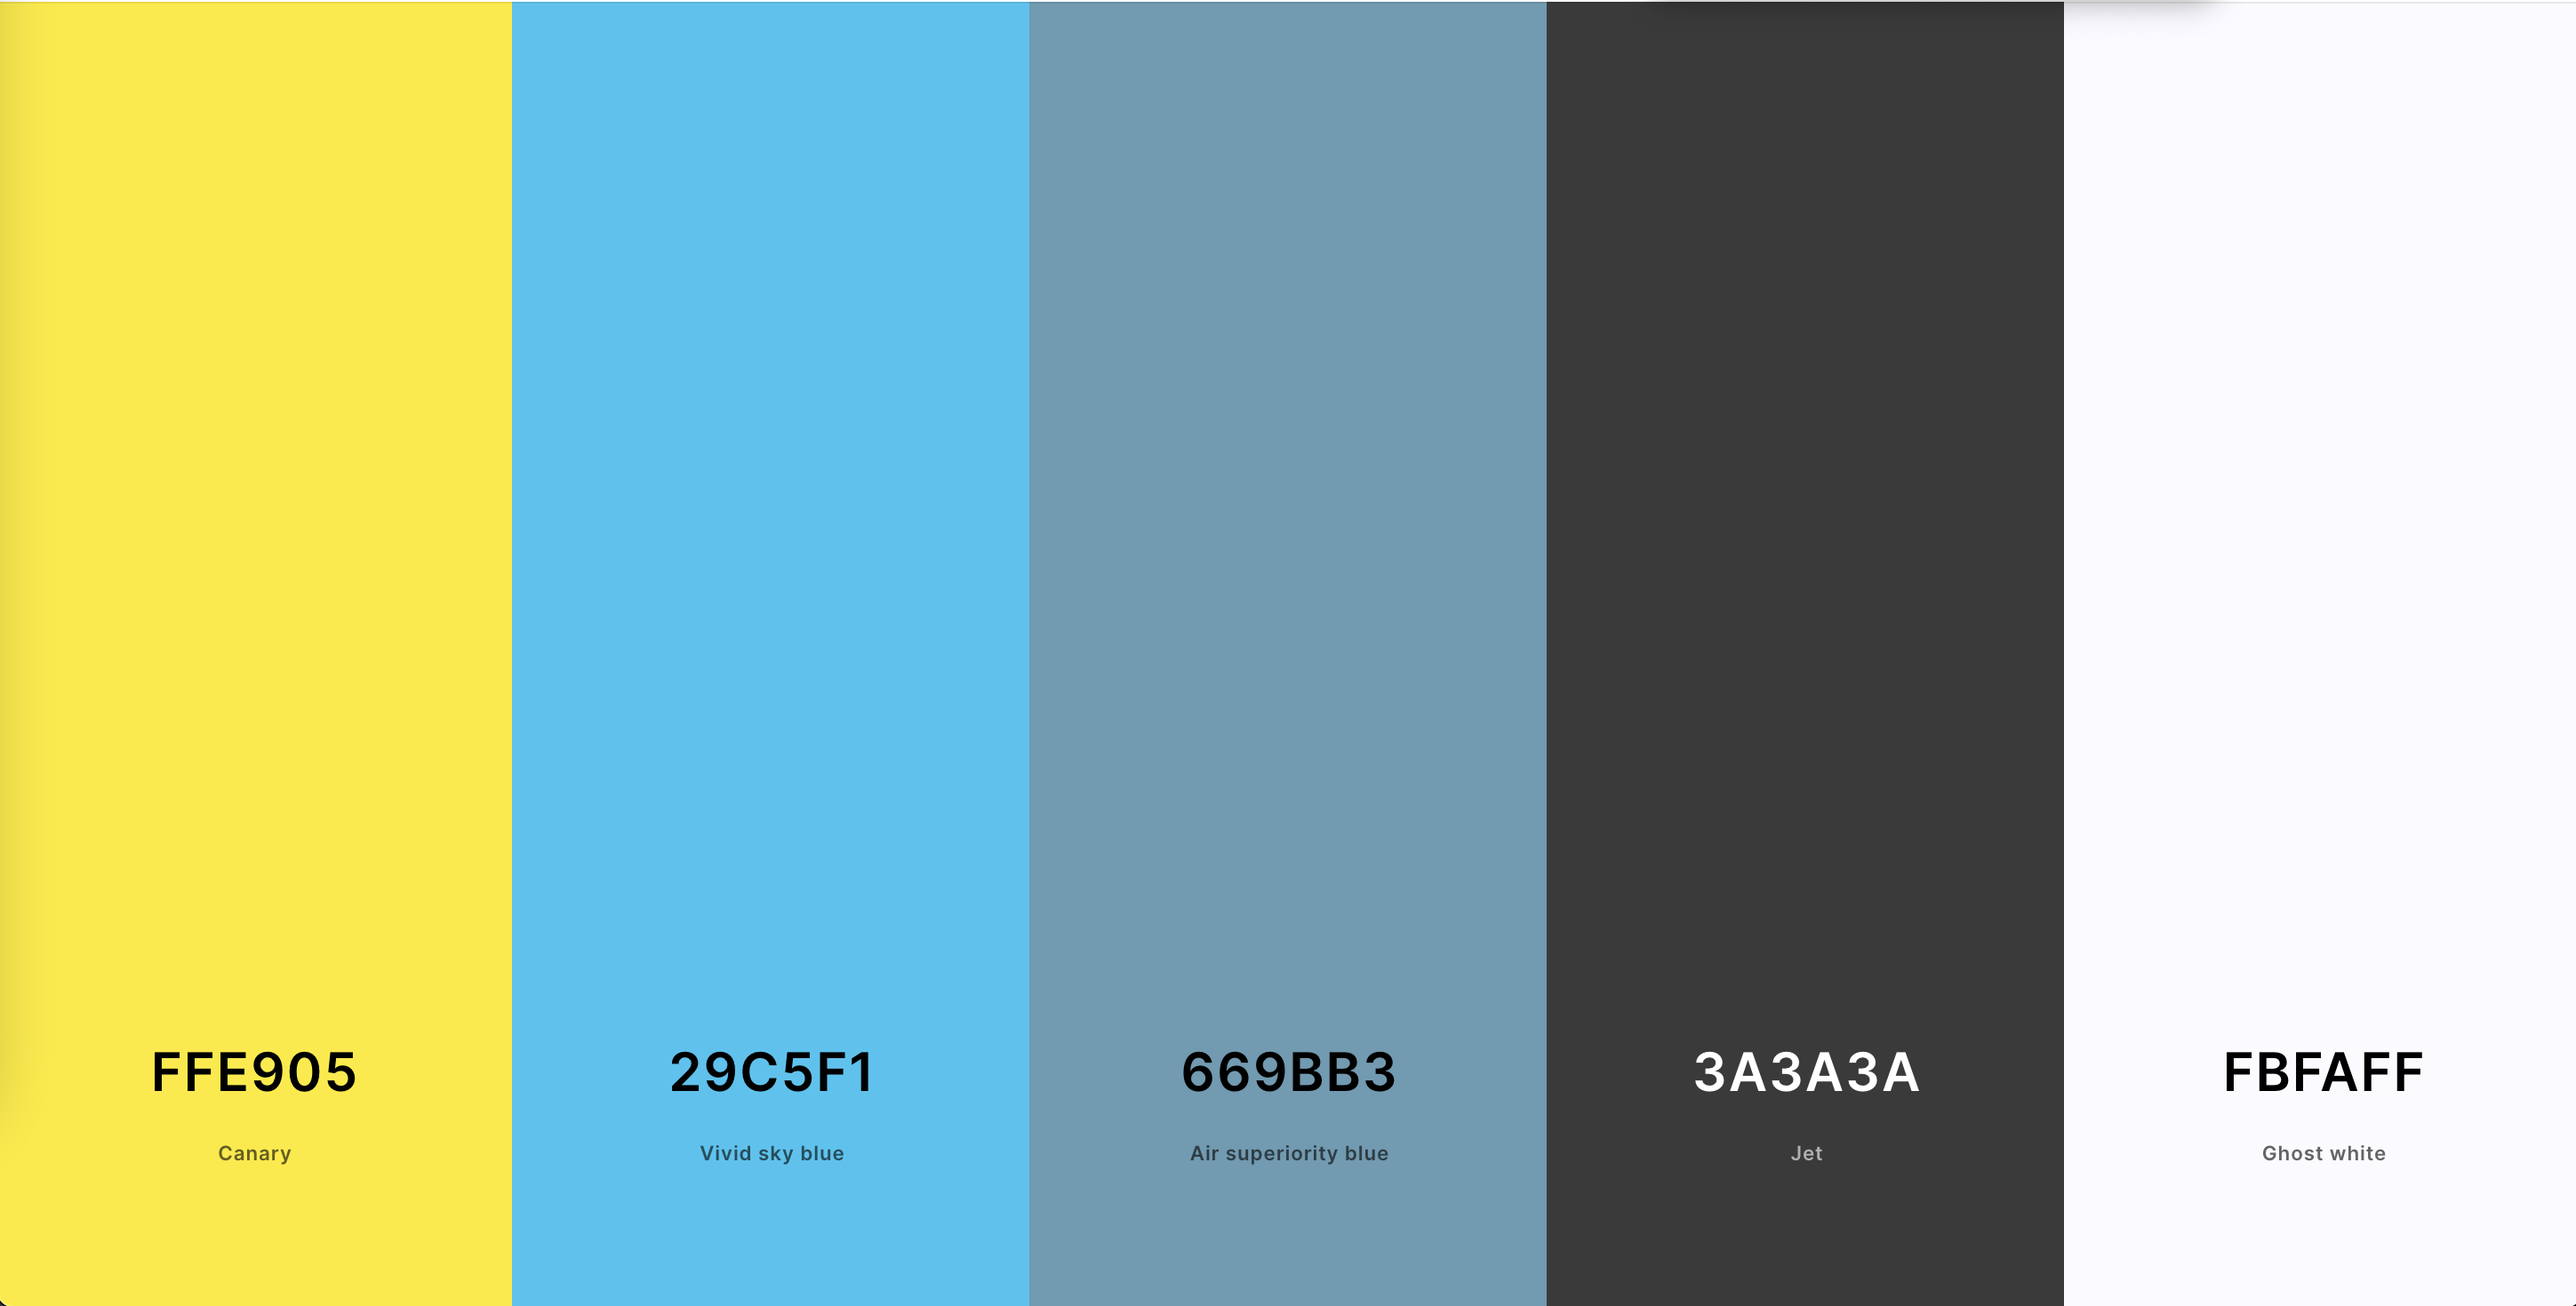
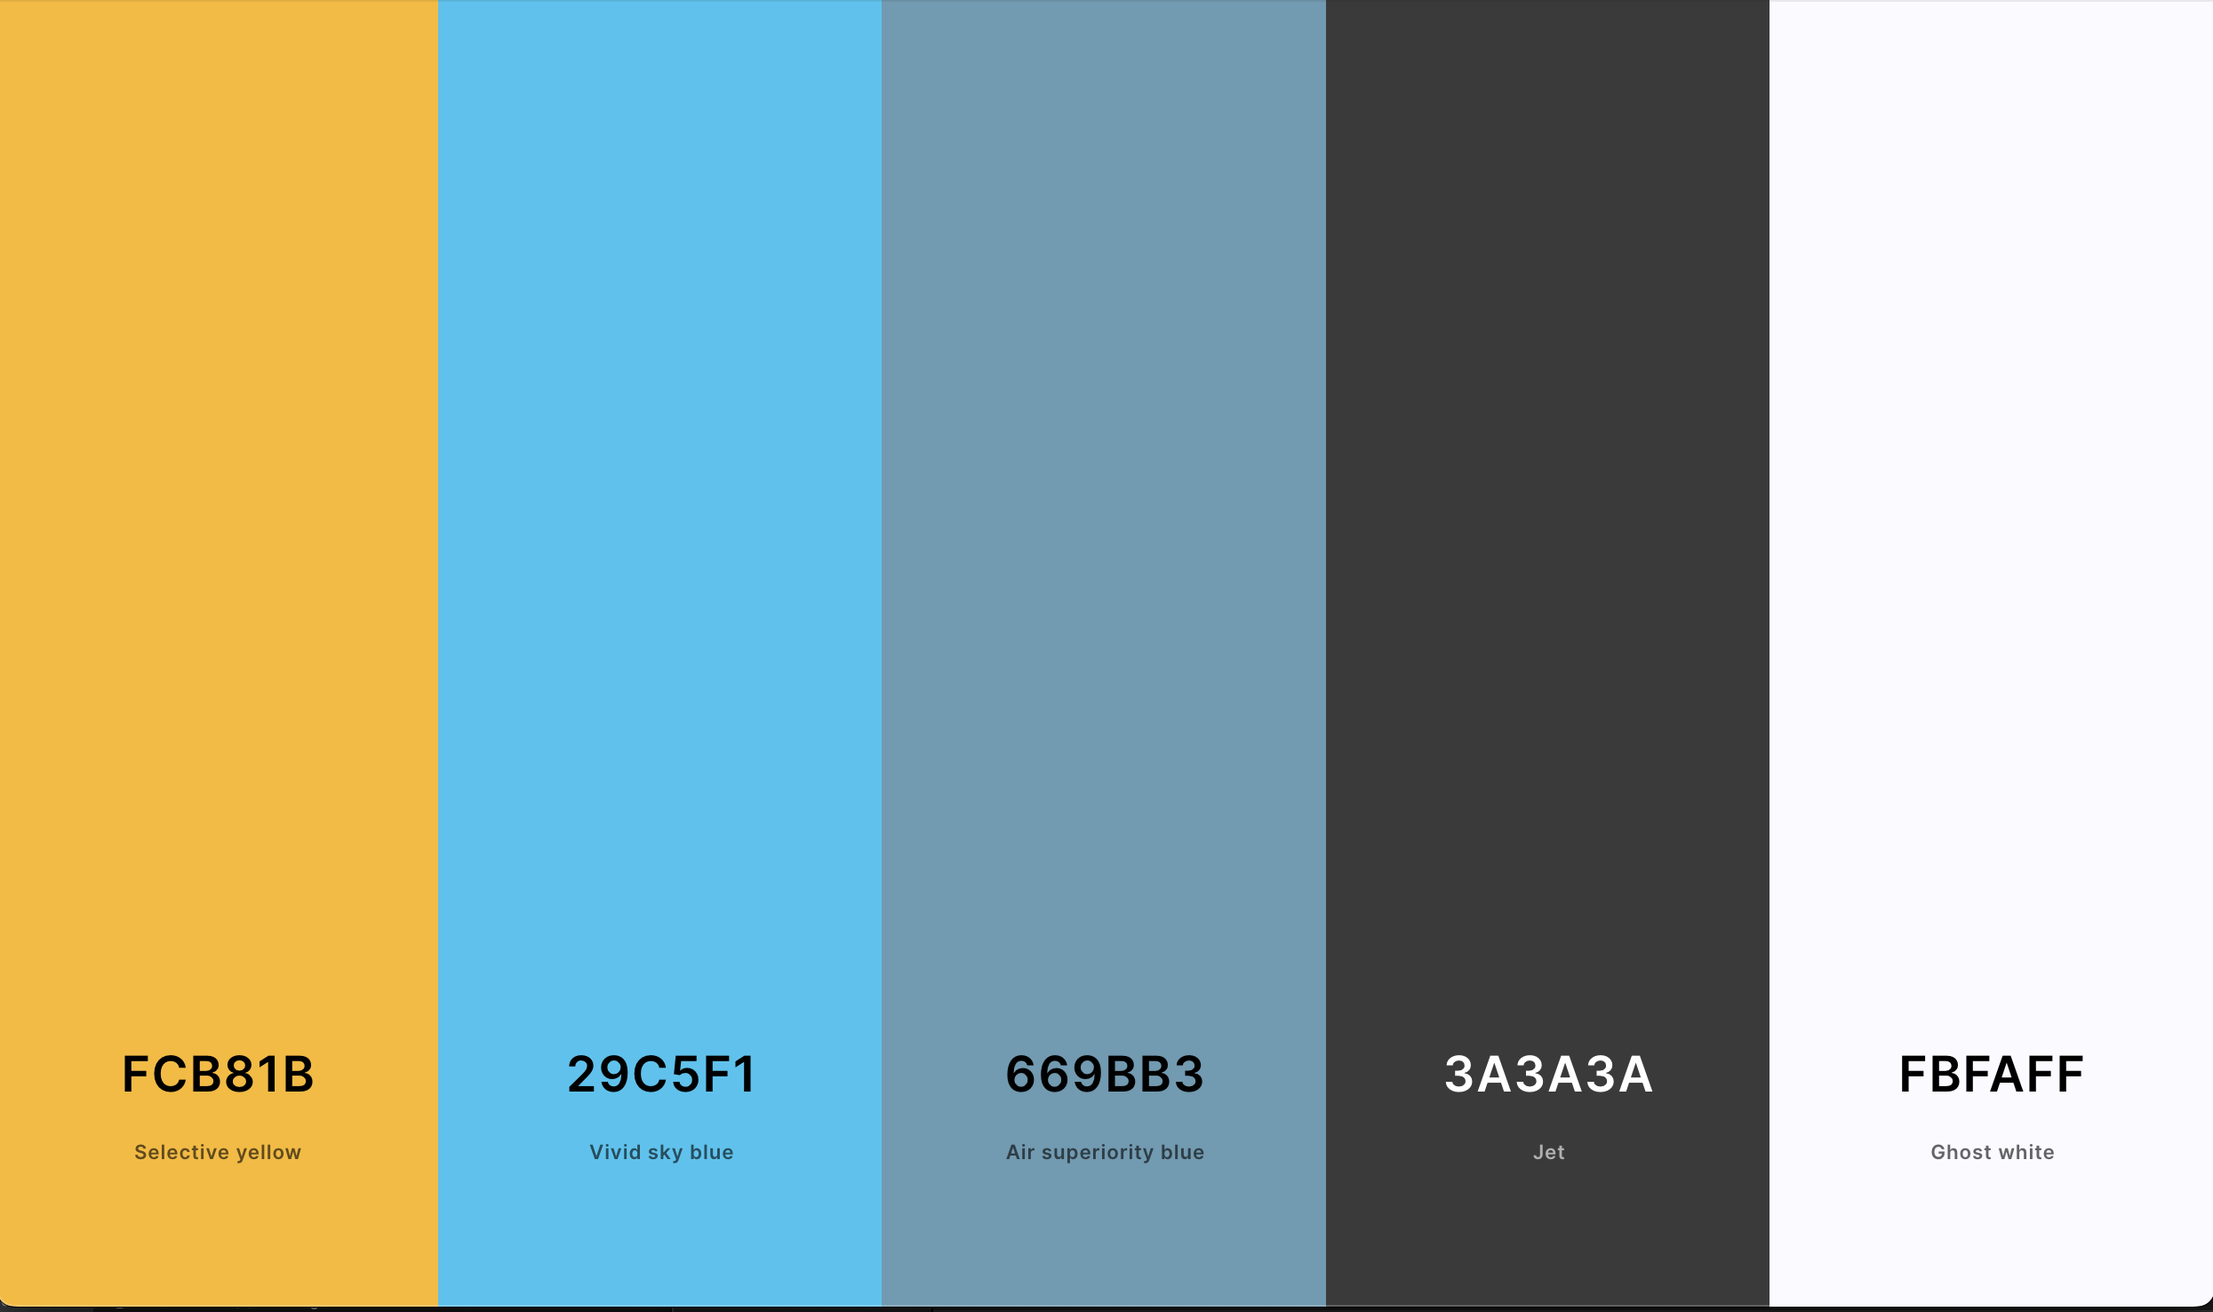
updated colors

diff --git a/givewell_google_styling.html b/givewell_google_styling.html
@@ -39,7 +39,7 @@
                 "elementType": "geometry.fill",
                 "stylers": [
                   {
-                    "color": "#ffe905"
+                    "color": "#fcb81b"
                   }
                 ]
               },

diff --git a/givewell_google_basemap.md b/givewell_google_basemap.md
@@ -12,7 +12,7 @@ I sourced and downloaded the GiveWell logos for color reference - extracting key
 ![givewell_logo2](./img/givewell_logo2.png)
 
 ### Color Palette Used 
-- #FFE905 (yellow)
+- #FCB81B (orange)
 - #29C5F1 (light blue)
 - #669BB3 (teal)
 - #3A3A3A (grey)
@@ -20,6 +20,26 @@ I sourced and downloaded the GiveWell logos for color reference - extracting key
 
 ![palette](./img/Google_Basemap_Colors_Givewell.png)
 ## Customized Basemap
-![basemap_screenshot](./img/basemap_example.png)
+![basemap_screenshot](./img/screenshot_med.png)
+![basemap_screenshot_big](./img/screenshot_big.png)
+![basemap_screenshot_small](./img/screenshot_small.png)
+
+### Styling 
+| Feature Type              | Hex Code |
+|---------------------------|----------|
+| geometry                  | #ebe3cd  |
+| geometry.fill             | #fcb81b |
+| labels.text.fill          | #000000  |
+| labels.text.stroke        | #669bb3  |
+| administrative            | #c9b2a6  |
+| administrative.land_parcel| #dcd2be  |
+| landscape                 | #dfd2ae  |
+| landscape.natural         | #dfd2ae  |
+| poi                       | #dfd2ae  |
+| poi.business              | #ffffff  |
+| poi.park                  | #a5b076  |
+| poi.sports_complex        | #ffffff  |
+| road                      | #f5f1e6  |
+
 
 [Download JSON Styler](./homeworks/givewell_styling.json)
